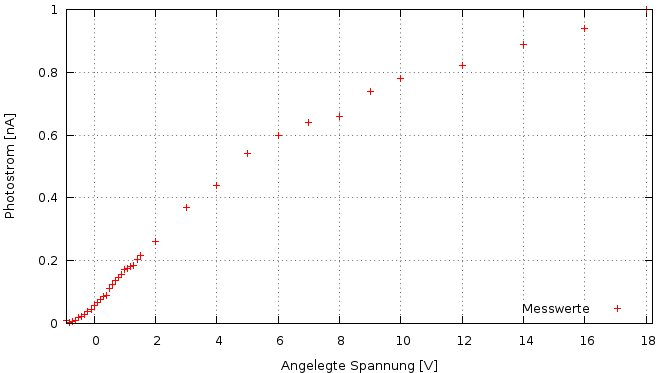
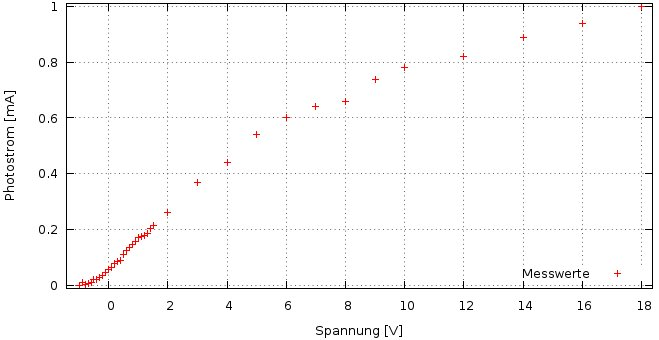
modified:   16.500 Photoeffekt/daten/daten.ods 	modified:   16.500 Photoeffekt/daten/daten2 	modified:   16.500 Photoeffekt/daten/ploot 	new file:   16.500 Photoeffekt/pics/4werte.jpg 	modified:   16.500 Photoeffekt/pics/gesamt.jpg 	new file:   16.500 Photoeffekt/pics/wurzel404.jpg 	new file:   16.5

diff --git a/16.500 Photoeffekt/protokoll.tex b/16.500 Photoeffekt/protokoll.tex
@@ -125,7 +125,108 @@ liegt. Für die Wellenlänge $\lambda$ = 438,8 nm wird zusätzlich der Bereich v
 
 \section{Auswertung}
 
-\section{Diskussion}
+
+
+Um die $I_{pk} \propto U^2$
+Gesetzmäßigkeit nachzuweisen, wird die Wurzel des Stroms gegen die Spannung aufgetragen.
+
+\begin{figure}[H]
+\includegraphics[width=0.8\textwidth]{pics/wurzel404.jpg}
+\caption{Photostrom gegen die Spannung aufgetragen - 404,7nm}
+\end{figure}
+
+\begin{figure}[H]
+\includegraphics[width=0.8\textwidth]{pics/wurzel407.jpg}
+\caption{Photostrom gegen die Spannung aufgetragen - 407,8nm}
+\end{figure}
+\newpage
+Verwendet wurden dabei folgende Messwerte:
+\renewcommand{\arraystretch}{.95}
+\begin{table}[H]
+\begin{tabular}{|c|c!{\vrule width 1.5pt} c|c!{\vrule width 1.5pt} c|c!{\vrule width 1.5pt} c|c|}
+\hline
+435.8nm &  & 404.7nm &  & 407.8nm & & 546.1nm & \\ \hline
+-1.0 & 0 	& -1.5 & 0 		& -1.1 & 0 		& -0.6&0 \\ \hline
+-0.9 & 0.01 & -1.4 & 0.002 	& -1.0 & 0.008 	& -0.5&0 \\ \hline
+-0.8 & 0.0025 & -1.3 & 0.008 & -0.9 & 0.017 & -0.4&0.003 \\ \hline
+-0.7 & 0.007 & -1.2 & 0.018 & -0.8 & 0.028 & -0.3&0.014 \\ \hline
+-0.6 & 0.0094 & -1.1 & 0.03 & -0.7 & 0.046 & -0.2&0.052 \\ \hline
+-0.5 & 0.0198 & -1.0 & 0.046 & -0.6 & 0.068 & -0.1&0.12 \\ \hline
+-0.4 & 0.022 & -0.9 & 0.066 & -0.5 & 0.091 & 0.0&0.17 \\ \hline
+-0.3 & 0.028 & -0.8 & 0.094 & -0.4 & 0.125 & 0.1&0.26 \\ \hline
+-0.2 & 0.036 & -0.7 & 0.125 & -0.3 & 0.16 & 0.2&0.34 \\ \hline
+-0.1 & 0.045 & -0.6 & 0.16 & -0.2 & 0.2 & 0.3&0.42 \\ \hline
+0.0 & 0.056 & -0.5 & 0.2 & -0.1 & 0.24 & 0.4&0.49 \\ \hline
+0.1 & 0.065 & -0.4 & 0.0245 & 0.0 & 0.275 & 0.5&0.56 \\ \hline
+0.2 & 0.076 & -0.3 & 0.265 & 0.1 & 0.3 & 0.6&0.62 \\ \hline
+0.3 & 0.085 & -0.2 & 0.32 & 0.2 & 0.36 & 0.7&0.66 \\ \hline
+0.4 & 0.09 & -0.1 & 0.37 & 0.3 & 0.41 & 0.8&0.7 \\ \hline
+0.5 & 0.11 & 0.0 & 0.4 & 0.4 & 0.45 & 0.9&0.74 \\ \hline
+0.6 & 0.125 & 0.1 & 0.44 & 0.5 & 0.5 & 1.0&0.78 \\ \hline
+0.7 & 0.135 & 0.2 & 0.52 & 0.6 & 0.54 & 1.2&0.87 \\ \hline
+0.8 & 0.145 & 0.3 & 0.56 & 0.7 & 0.59 & 1.4&0.93 \\ \hline
+0.9 & 0.155 & 0.4 & 0.61 & 0.8 & 0.63 & 1.6&1.08 \\ \hline
+1.0 & 0.17 & 0.5 & 0.66 & 0.9 & 0.69 & 1.8&1.15 \\ \hline
+1.1 & 0.175 & 0.6 & 0.72 & 1.0 & 0.72 & 2.0&1.2 \\ \hline
+1.2 & 0.18 & 0.7 & 0.77 & 1.2 & 0.8 &&  \\ \hline
+1.3 & 0.185 & 0.8 & 0.81 & 1.4 & 0.95 &&  \\ \hline
+1.4 & 0.205 & 0.9 & 0.86 & 1.6 & 1 &  &\\ \hline
+1.5 & 0.215 & 1.0 & 0.89 & 1.8 & 1.15 &&  \\ \hline
+2.0 & 0.26 & 1.2 & 1.05 & 2.0 & 1.2 && \\ \hline
+3.0 & 0.37 & 1.4 & 1.2 &  & && \\ \hline
+4.0 & 0.44 & 1.6 & 1.35 &  && & \\ \hline
+5.0 & 0.54 & 1.8 & 1.45 &  && & \\ \hline
+6.0 & 0.6 & 2.0 & 1.5 &  && & \\ \hline
+7.0 & 0.64 & & & & && \\ \hline
+8.0 & 0.66 & & & & && \\ \hline
+9.0 & 0.74 & & & & && \\ \hline
+10.0 & 0.78 & & & & & &\\ \hline
+12.0 & 0.82 &  & & & &&\\ \hline
+14.0 & 0.89 & & & & & &\\ \hline
+16.0 & 0.94 & & & & & &\\ \hline
+18.0 & 1 & 	& & & & &\\ \hline
+\end{tabular}
+\renewcommand{\arraystretch}{1}
+\caption{Messwerte}
+\end{table}
+
+\begin{figure}[H]
+\includegraphics[width=0.8\textwidth]{pics/wurzel4358.jpg}
+\caption{Photostrom gegen die Spannung aufgetragen - 435,8nm}
+\end{figure}
+
+\begin{figure}[H]
+\includegraphics[width=0.8\textwidth]{pics/wurzel546.jpg}
+\caption{Photostrom gegen die Spannung aufgetragen - 546,1nm}
+\end{figure}
+
+Als Y-Achsenabschnitt liest sich dann die Spannung ab, ab der ein Photostrom gemessen werden kann:
+
+\begin{align*}
+0.600\text{V}	=	404.7\text{nm}\\
+0.486\text{V}	=	407.8\text{nm}\\
+0.222\text{V}	=	435.8\text{nm}\\
+0.386\text{V}	=	546.1\text{nm}\\
+\end{align*}
+
+Für Licht der Wellenlänge 435,8nm wurde der Photostrom über einen weiteren Spannungsbereich aufgenommen. Der Plot ergab folgendes Diagram:
+
+\begin{figure}[H]
+\includegraphics[width=0.6\textwidth]{pics/gesamt.jpg}
+\caption{Photostrom und Spannung für 435,8nm}
+\end{figure}
+
+Zunächst lässt sich festhalten, dass selbst bei negativen Beschleunigungsspannung bereits ein schwacher Phtotostrom messbar ist. Die liegt daran, dass die Elektronen im Metal, eine der Dirac-Verteilung entsprechende Energieverteilung haben und die Energie für einige der Elektronen ausreicht, um das Metal spontan zu verlassen und gegen das Gegenfeld anzulaufen. Der Kurvenverlauf in diesem Bereich stimmt auch sehr gut mit der Dirac-Kurve überein.\
+Sobald die Spannung größer wird, beginnt die Kurve zu steigen. Die liegt daran, dass zunehmend mehr Elektronen vom elektrischen Feld eingefangen und zur Anode transportiert werden. Die Steigung der Kurve ist hier nahezu linear.\\
+Bei höheren Spannung stellt sich schließlich eine Sättigung des Stromes ein. Dies kennzeichnet den Bereich, ab dem quasi alle Elektronen, die das Metal verlassen auch durch das elektrische Feld zur Anode gelangen. Bei noch größeren Spannungen kann ihre Anzahl nicht weiter steigen.
+
+Die vier Werte, die sich aus der Gegenspannung und der Frequenz zusammensetzen, ergeben leider keine schöne Gerade. Möglicherweise hat sich aus den vorherigen Rechnungen ein Folgefehler eingeschlichen, so dass diese Auswertung kein brauchbares Ergebnis liefert. (Ich werde das nochmal am Wochenende nachprüfen.)
+
+\begin{figure}[H]
+\includegraphics[width=0.6\textwidth]{pics/4werte.jpg}
+\caption{Gegenspannung gegen Frequenz}
+\end{figure} 
+%\section{Diskussion}
 
 % ========================================
 %	Literaturverzeichnis
